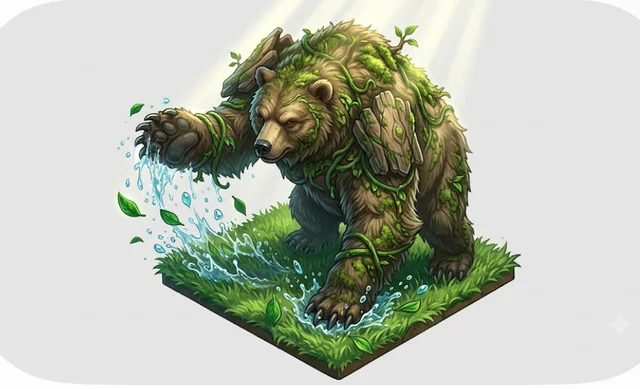
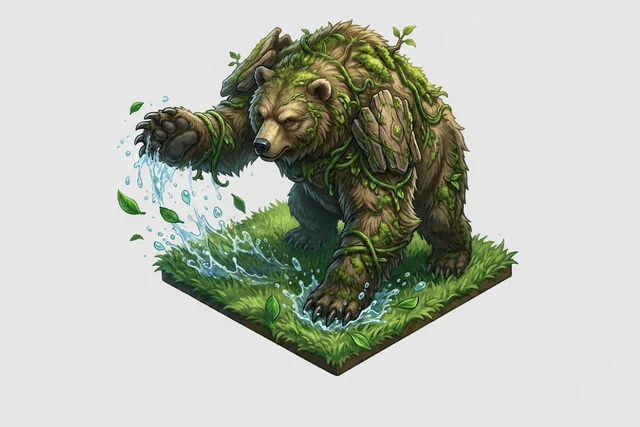
Fix bear card: clean source art (no sun rays) + forest-green card hue
The bear card looked broken for two reasons: the source painting's diagonal sun rays survived background keying as opaque grey streaks floating over the transparent area, and the card's backdrop hue (25, amber-brown) read as a Magma card sitting in the Oasis roster.

- Regenerated art-src/Bear.png without the sun rays / corner sparkle (art otherwise identical) and rebuilt public/art/bear.webp; keying now cuts a clean silhouette.
- Bear card hue 25 -> 140, matching its faction row and its cinematic hero color.

diff --git a/src/data.ts b/src/data.ts
@@ -80,7 +80,8 @@ export const OASIS_CARDS: CardDef[] = [
     id: 'bear', name: 'Bear', title: 'Warden of the Shallows', cost: 6, kind: 'unit', species: 'bear',
     stats: U({ hp: 530, dmg: 56, speed: 0.12, atkCd: 8, range: 1.1, canHitAir: true, heavy: true, radius: 0.52 }),
     blurb: 'Heavy sweeping tank. Each swipe rakes everything beside its target — and it rears up to swat flyers out of the air.',
-    hue: 25,
+    // Forest green (matches the cinematic) — hue 25 read as a Magma card.
+    hue: 140,
   },
   {
     id: 'bighorn', name: 'Bighorn Sheep', title: 'The Emerald Comet', cost: 4, kind: 'unit', species: 'bighorn',